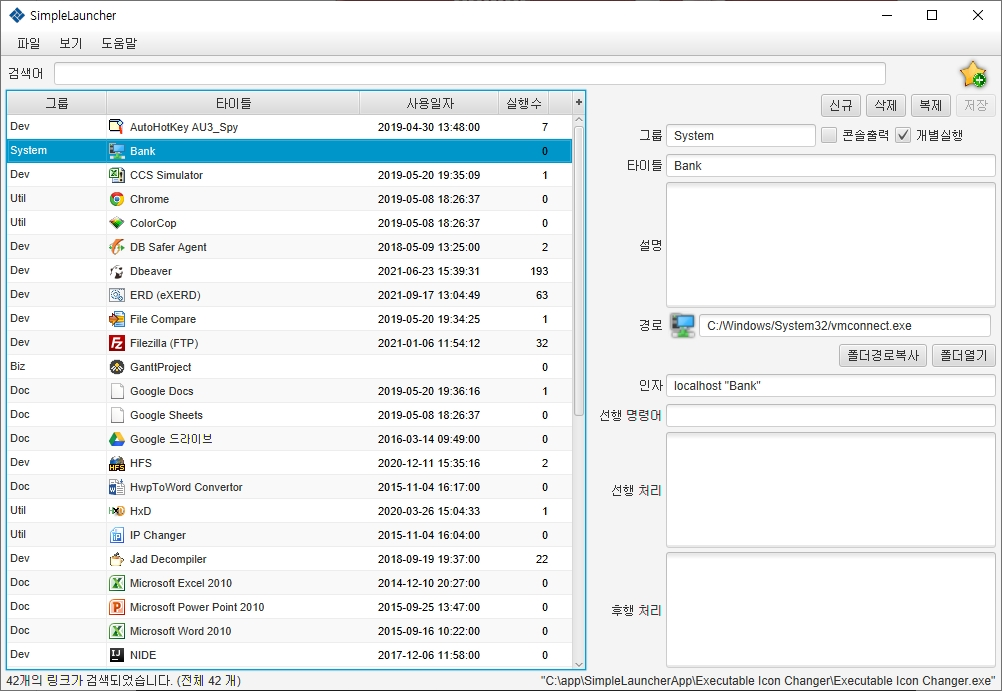
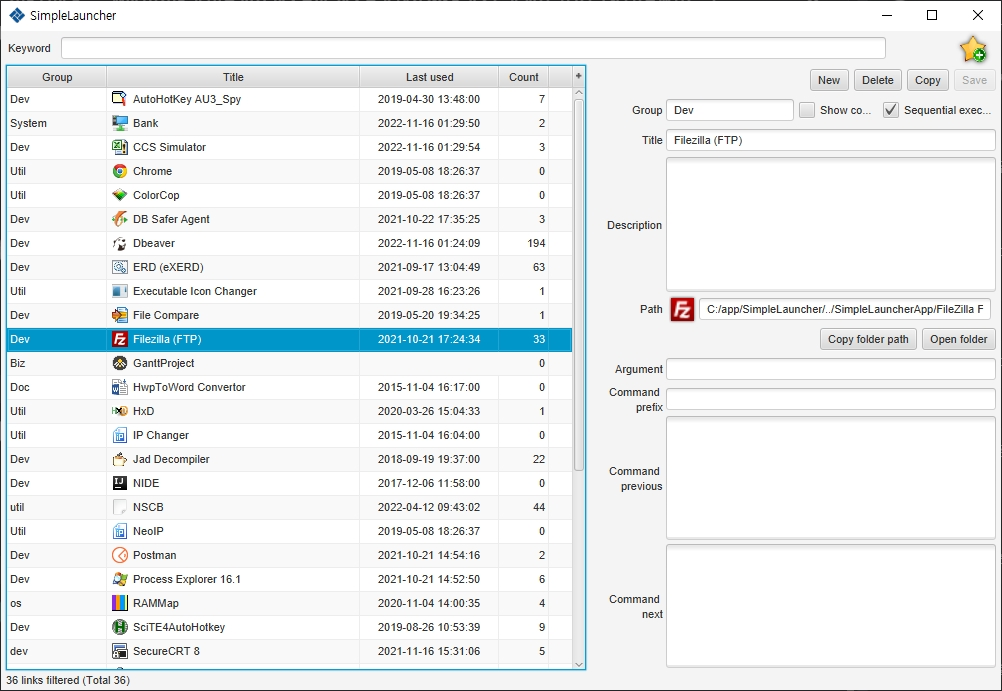
1. add description about keyword history mode. 2. change screenshot with english description.

diff --git a/README.md b/README.md
@@ -40,9 +40,9 @@ java -jar SimpleLauncher.jar clear
 | Delete         | delete item             |
 | Ctrl + **C**   | copy item's folder path |
 
-### Launcher editor
+### Link editor
 
-only works when Launcher editor is opened.
+Only works when Link editor is opened.
 
 | shortcut             | description             |
 | --------------       | ------------------      |
@@ -54,6 +54,26 @@ only works when Launcher editor is opened.
 | Ctrl + Shift + **C** | copy item's folder path |
 | Ctrl + **O**         | open item's folder      |
 | Ctrl + **I**         | change item icon        |
+
+![link editor](https://github.com/nayasis/simpleLauncher/blob/master/doc/linkeditor.jpg?raw=true)
+
+### Keyword history
+
+When keyword focused
+
+![keyword focused](https://github.com/nayasis/simpleLauncher/blob/master/doc/keyword-focused.jpg?raw=true)
+
+Enter history mode by pressing ***Alt + Down***.
+
+![history mode](https://github.com/nayasis/simpleLauncher/blob/master/doc/keyword-historymode.jpg?raw=true)
+
+| shortcut             | description                    |
+| --------------       | ------------------             |
+| Alt + **Left**       | previous link executed         |
+| Alt + **Right**      | next link executed             |
+| any key              | auto completed executed links  |
+
+![autocompleted links](https://github.com/nayasis/simpleLauncher/blob/master/doc/keyword-autocomplete.jpg?raw=true)
 
 ## Binding parameters
 
@@ -97,7 +117,7 @@ gradle bootRun
 gradle bootJar
 ```
 JAR file will be created in <u>${Project Directory}**/build/libs**</u>  
-It can be run like follow.
+It could be run like below.
 ```shell
 java -jar simplelauncher.jar
 ```
